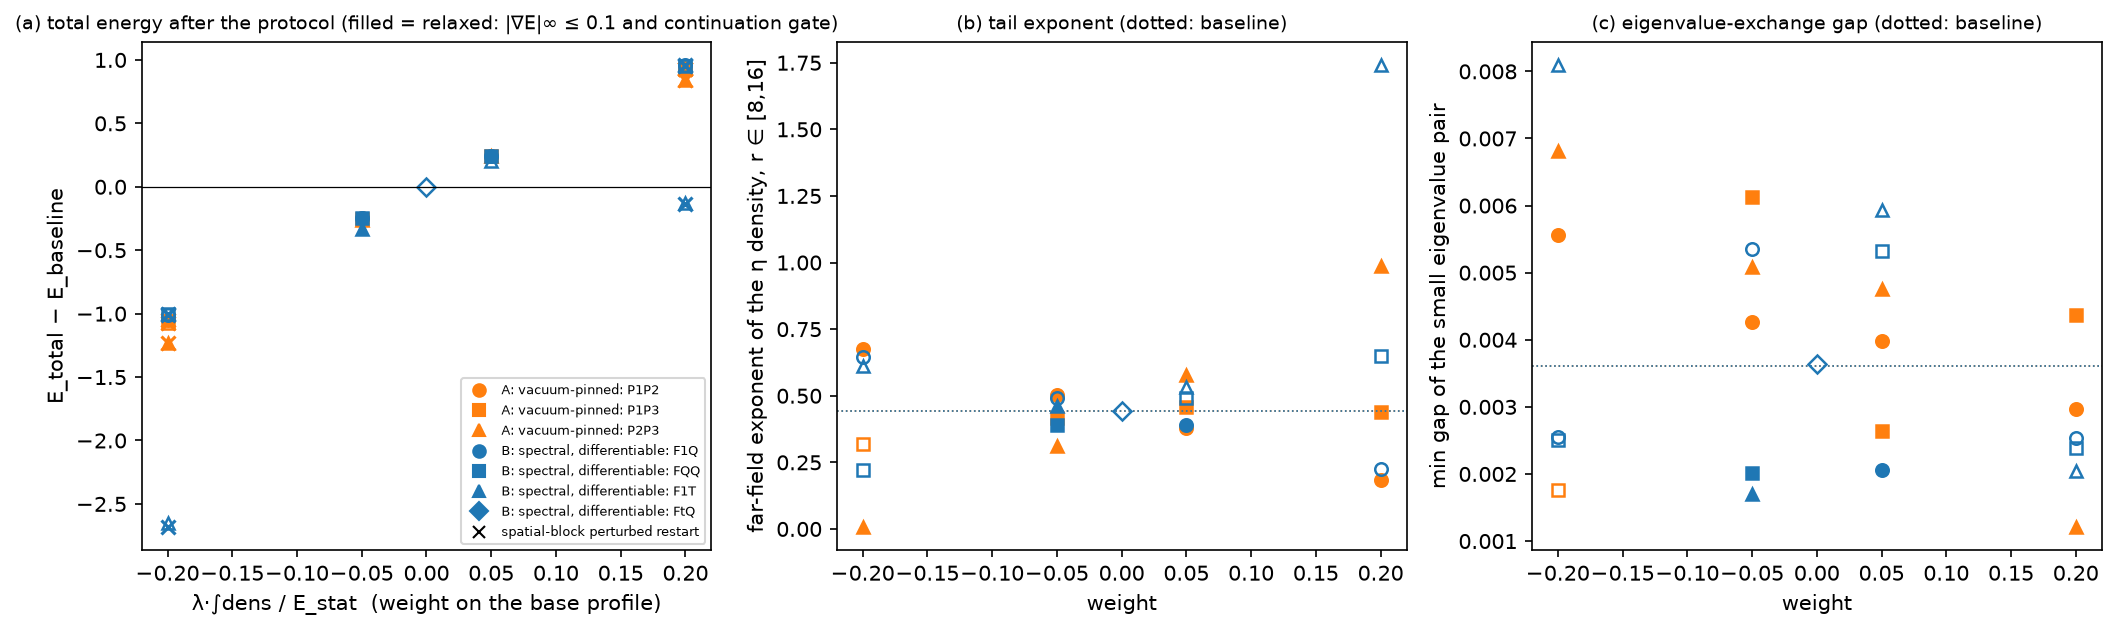
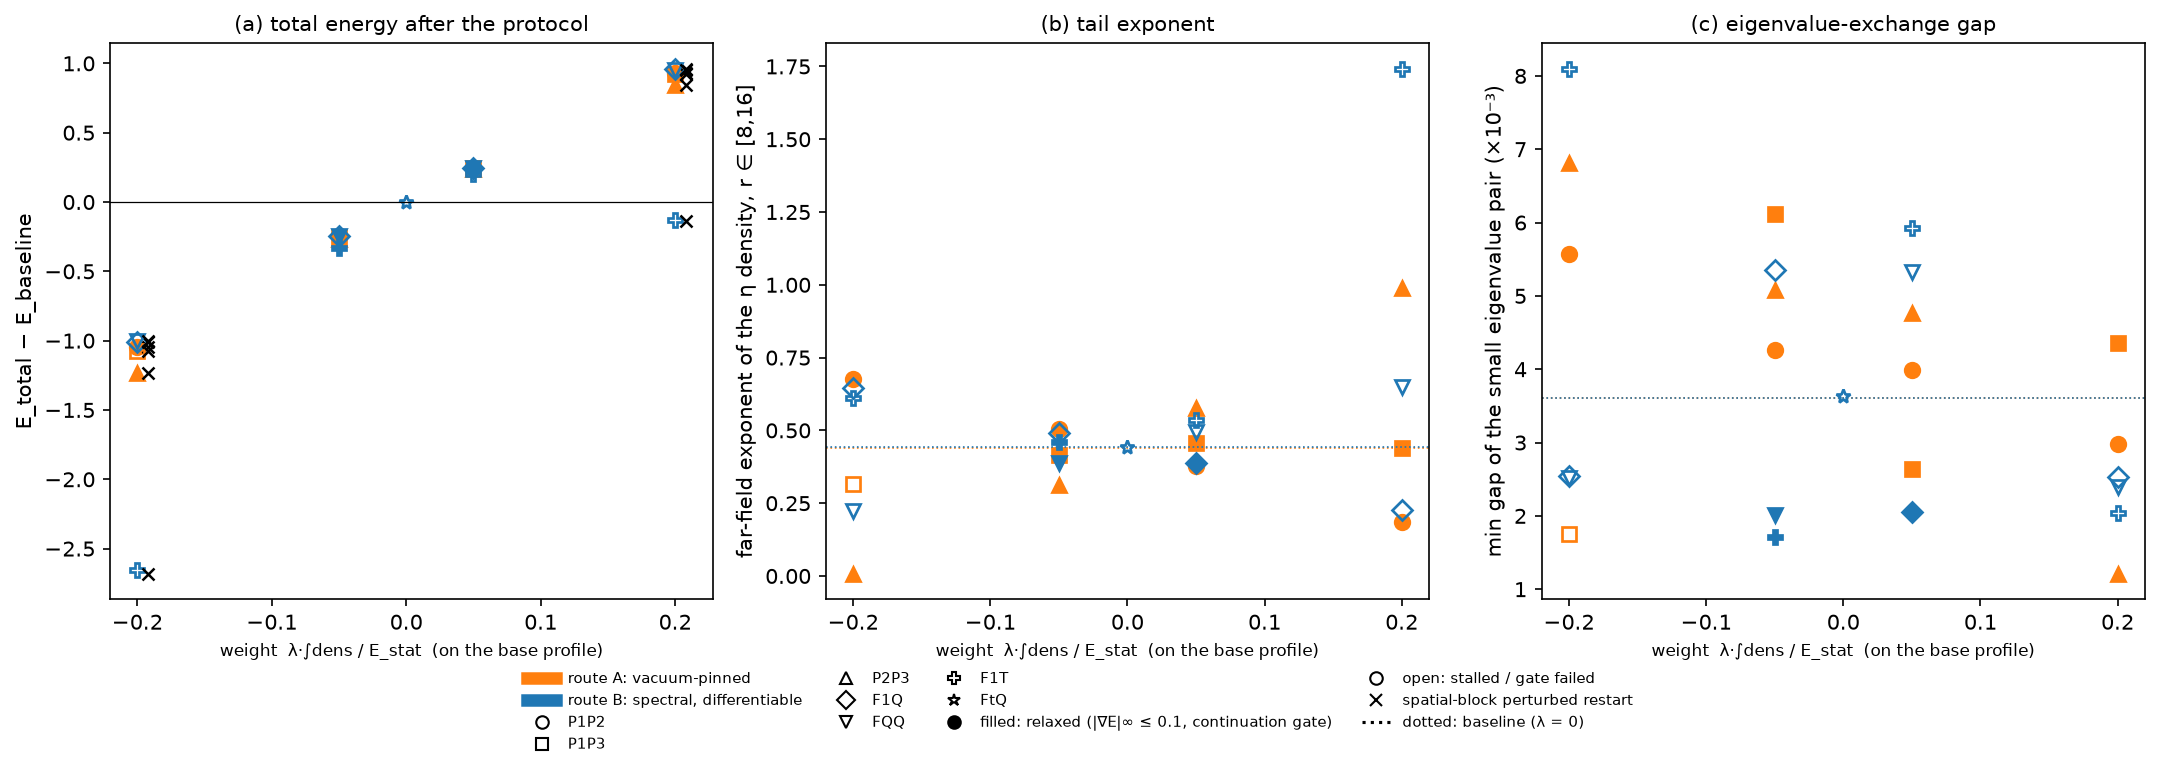
014: figure readability pass (control labels, legends outside the data, global class markers, gap in 1e-3 units, threshold and clipping annotations)
Claude-Session: https://claude.ai/code/session_01AXiDp4CUWrDnL7Bte478aD

diff --git a/reports/014-linear-F-terms/make_figures.py b/reports/014-linear-F-terms/make_figures.py
@@ -10,41 +10,69 @@ import json, os
 import matplotlib
 matplotlib.use('Agg')
 import matplotlib.pyplot as plt
+from matplotlib.patches import Patch
+from matplotlib.lines import Line2D
 import numpy as np
+
+MARK = {'P1P2': 'o', 'P1P3': 's', 'P2P3': '^', 'F1Q': 'D', 'FQQ': 'v', 'F1T': 'P', 'FtQ': '*'}
+WLABEL = 'weight  λ·∫dens / E_stat  (on the base profile)'
+
 
 def load(n):
     with open(f'results/{n}.json') as f:
         return json.load(f)
 
+
+def pretty(label):
+    return label.replace('02-13', '').replace('eta', 'η').replace('eps[', 'ε[')
+
+
 def fig1():
     nt = load('null_test'); ks = load('static_kernel_signs')
-    fig, (ax1, ax2) = plt.subplots(1, 2, figsize=(12.5, 4.4), dpi=150,
-                                   gridspec_kw={'width_ratios': [2.2, 1]})
+    fig, (ax1, ax2) = plt.subplots(1, 2, figsize=(13, 4.8), dpi=150,
+                                   gridspec_kw={'width_ratios': [2.3, 1]})
     names = list(nt.keys())
     vals = [max(nt[n]['el_ratio'], 1e-18) for n in names]
-    cols = ['tab:gray' if nt[n]['null'] else ('tab:blue' if nt[n]['label'].startswith('02') else 'tab:purple') for n in names]
-    cols = ['tab:red' if n.startswith('CONTROL') else c for n, c in zip(names, cols)]
-    ax1.bar(range(len(names)), vals, color=cols)
-    ax1.set_yscale('log'); ax1.axhline(1e-8, color='k', lw=0.7, ls='--')
+    def color(n):
+        if n.startswith('CONTROL'):
+            return 'tab:red'
+        if nt[n]['null']:
+            return 'tab:gray'
+        return 'tab:blue' if nt[n]['label'].startswith('02') else 'tab:purple'
+    ax1.bar(range(len(names)), vals, color=[color(n) for n in names])
+    ax1.set_yscale('log'); ax1.set_ylim(1e-19, 5)
+    ax1.axhline(1e-8, color='k', lw=0.7, ls='--')
+    ax1.text(len(names) - 0.5, 2e-8, 'null threshold 1e-8', ha='right', va='bottom', fontsize=7)
+    ax1.text(len(names) - 0.5, 2e-18, 'values clipped at 1e-18', ha='right', fontsize=6, color='0.4')
     ax1.set_xticks(range(len(names)))
-    ax1.set_xticklabels([nt[n]['label'].replace('02-13', '') for n in names], rotation=90, fontsize=6)
+    ax1.set_xticklabels([('ctrl: ' if n.startswith('CONTROL') else '') + (pretty(nt[n]['label']) if n != 'CONTROL_I1' else 'I₁')
+                         for n in names], rotation=90, fontsize=7)
     ax1.set_ylabel('|EL| / scale')
-    ax1.set_title('(a) Euler–Lagrange test: null threshold 1e-8; red = controls (I₁, φ),\n'
-                  'gray = null (φ, χ), blue = even, purple = odd decorated classes', fontsize=9)
-    labs = [v['label'] for v in ks.values()]
-    ax2.bar(range(len(labs)), [v['n_pos'] for v in ks.values()], color='tab:green', label='positive')
-    ax2.bar(range(len(labs)), [-v['n_neg'] for v in ks.values()], color='tab:red', label='negative')
-    ax2.set_xticks(range(len(labs))); ax2.set_xticklabels([l.replace('02-13', '') for l in labs], rotation=60, fontsize=7)
-    ax2.axhline(0, color='k', lw=0.6)
-    ax2.set_ylabel('eigenvalue count (18×18 static kernel)')
-    ax2.set_title('(b) 3×3-alive classes: traceless, indefinite kernels', fontsize=9)
-    ax2.legend(fontsize=7)
+    ax1.set_title('(a) Euler–Lagrange test per linear class', fontsize=10)
+    ax1.legend(handles=[Patch(color='tab:red', label='controls (I₁ dynamical, φ null)'),
+                        Patch(color='tab:gray', label='constant-coefficient φ, χ (null, report 005)'),
+                        Patch(color='tab:blue', label='even classes with projectors'),
+                        Patch(color='tab:purple', label='odd (ε) classes with projectors')],
+               fontsize=7, loc='center right', bbox_to_anchor=(0.995, 0.30))
+    labs = [pretty(v['label']) for v in ks.values()]
+    pos = [v['n_pos'] for v in ks.values()]; neg = [v['n_neg'] for v in ks.values()]
+    ax2.bar(range(len(labs)), pos, color='tab:green')
+    ax2.bar(range(len(labs)), [-x for x in neg], color='tab:red')
+    for i, (p, q) in enumerate(zip(pos, neg)):
+        ax2.text(i, p + 0.2, f'{18 - p - q} zero', ha='center', fontsize=6, color='0.3')
+    ax2.set_xticks(range(len(labs))); ax2.set_xticklabels(labs, rotation=60, fontsize=7)
+    yt = [-8, -4, 0, 4, 8]; ax2.set_yticks(yt); ax2.set_yticklabels([str(abs(t)) for t in yt])
+    ax2.axhline(0, color='k', lw=0.6); ax2.set_ylim(-9.5, 10.5)
+    ax2.set_ylabel('count of positive (up) / negative (down)\neigenvalues of the 18×18 static kernel')
+    ax2.set_title('(b) 3×3-alive classes: traceless, indefinite', fontsize=10)
     fig.tight_layout(); fig.savefig('results/fig_linear_family.png', bbox_inches='tight')
 
+
 def fig2():
-    routes = [('A: vacuum-pinned', 'lattice_linear_A', 'tab:orange'), ('B: spectral, differentiable', 'lattice_linear_B', 'tab:blue')]
-    fig, axes = plt.subplots(1, 3, figsize=(14, 4.3), dpi=150)
-    any_data = False
+    routes = [('route A: vacuum-pinned', 'lattice_linear_A', 'tab:orange'),
+              ('route B: spectral, differentiable', 'lattice_linear_B', 'tab:blue')]
+    fig, axes = plt.subplots(1, 3, figsize=(14.5, 4.6), dpi=150)
+    any_data = False; seen = {}
     for lab, fn, col in routes:
         if not os.path.exists(f'results/{fn}.json'):
             continue
@@ -53,44 +81,41 @@ def fig2():
         base = runs.get('baseline')
         if base is None or base['status'] != 'ok':
             continue
-        markers = {}
+        rc = load(f'restart_check_{fn[-1]}') if os.path.exists(f'results/restart_check_{fn[-1]}.json') else {}
         for k, r in runs.items():
             if k == 'baseline':
                 continue
-            cls = k.split('_')[0]
-            mk = markers.setdefault(cls, ['o', 's', '^', 'D', 'v'][len(markers)])
+            cls = k.split('_')[0]; seen[cls] = True
             w = r['lambda'] * lt['base_integrals'][cls] / lt['E_stat_base']
             ok = r['status'] == 'ok'
             eff = abs(r['E_total'] - base['E_total'])
             relaxed = ok and r.get('grad_inf_free', 1.0) <= 0.1 and (eff < 1e-9 or abs(r.get('continuation_dE', 1.0)) < 0.01 * eff)
-            kw = dict(color=col, marker=mk, ms=6, ls='none', mfc=col if relaxed else 'none', mew=1.2)
+            kw = dict(color=col, marker=MARK[cls], ms=7, ls='none', mfc=col if relaxed else 'none', mew=1.3)
             axes[0].plot(w, r['E_total'] - base['E_total'], **kw)
             if ok:
                 axes[1].plot(w, r['tail_eta'], **kw)
-                axes[2].plot(w, r['small_gap_min'], **kw)
-            else:
-                axes[0].annotate(r['status'][:8], (w, r['E_total'] - base['E_total']), fontsize=6, color=col)
-            rc_file = f"results/restart_check_{fn[-1]}.json"
-            if os.path.exists(rc_file):
-                rc = load(f"restart_check_{fn[-1]}")
-                if k in rc:
-                    axes[0].plot(w, rc[k]['E_restart'] - base['E_total'], marker='x', color=col, ms=7, mew=1.5, ls='none')
-        for ax, key in ((axes[1], 'tail_eta'), (axes[2], 'small_gap_min')):
-            ax.axhline(base[key], color=col, lw=0.8, ls=':')
-        for cls, mk in markers.items():
-            axes[0].plot([], [], color=col, marker=mk, ls='none', label=f'{lab}: {cls}')
-    axes[0].plot([], [], color='k', marker='x', ls='none', label='spatial-block perturbed restart')
+                axes[2].plot(w, 1e3 * r['small_gap_min'], **kw)
+            if k in rc:
+                axes[0].plot(w + 0.008, rc[k]['E_restart'] - base['E_total'], marker='x', color='k', ms=6, mew=1.2, ls='none')
+        for ax, key, sc in ((axes[1], 'tail_eta', 1.0), (axes[2], 'small_gap_min', 1e3)):
+            ax.axhline(sc * base[key], color=col, lw=0.8, ls=':')
+    for ax in axes:
+        ax.set_xticks([-0.2, -0.1, 0, 0.1, 0.2]); ax.set_xlabel(WLABEL, fontsize=8)
     axes[0].axhline(0, color='k', lw=0.6)
-    axes[0].set_xlabel('λ·∫dens / E_stat  (weight on the base profile)'); axes[0].set_ylabel('E_total − E_baseline')
-    axes[0].set_title('(a) total energy after the protocol (filled = relaxed: |∇E|∞ ≤ 0.1 and continuation gate)', fontsize=9)
-    axes[1].set_xlabel('weight'); axes[1].set_ylabel('far-field exponent of the η density, r ∈ [8,16]')
-    axes[1].set_title('(b) tail exponent (dotted: baseline)', fontsize=9)
-    axes[2].set_xlabel('weight'); axes[2].set_ylabel('min gap of the small eigenvalue pair')
-    axes[2].set_title('(c) eigenvalue-exchange gap (dotted: baseline)', fontsize=9)
-    axes[0].legend(fontsize=6, loc='best')
+    axes[0].set_ylabel('E_total − E_baseline'); axes[0].set_title('(a) total energy after the protocol', fontsize=10)
+    axes[1].set_ylabel('far-field exponent of the η density, r ∈ [8,16]'); axes[1].set_title('(b) tail exponent', fontsize=10)
+    axes[2].set_ylabel('min gap of the small eigenvalue pair (×10⁻³)'); axes[2].set_title('(c) eigenvalue-exchange gap', fontsize=10)
+    handles = [Line2D([], [], color=c, lw=6, label=l) for l, _, c in routes]
+    handles += [Line2D([], [], color='k', marker=MARK[c], ls='none', mfc='none', label=c) for c in MARK if c in seen]
+    handles += [Line2D([], [], color='k', marker='o', ls='none', label='filled: relaxed (|∇E|∞ ≤ 0.1, continuation gate)'),
+                Line2D([], [], color='k', marker='o', ls='none', mfc='none', label='open: stalled / gate failed'),
+                Line2D([], [], color='k', marker='x', ls='none', label='spatial-block perturbed restart'),
+                Line2D([], [], color='k', ls=':', label='dotted: baseline (λ = 0)')]
+    fig.legend(handles=handles, fontsize=7, ncol=4, loc='lower center', bbox_to_anchor=(0.5, -0.12), frameon=False)
     if not any_data:
         axes[0].text(0.5, 0.5, 'no lattice records', transform=axes[0].transAxes, ha='center')
     fig.tight_layout(); fig.savefig('results/fig_lattice_lambda.png', bbox_inches='tight')
+
 
 if __name__ == '__main__':
     fig1(); fig2(); print('figures -> results/fig_linear_family.png, results/fig_lattice_lambda.png')
